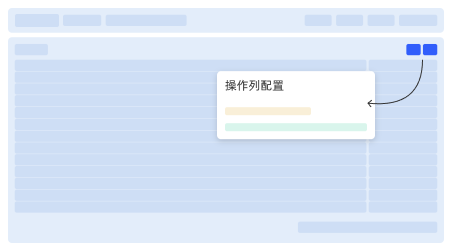
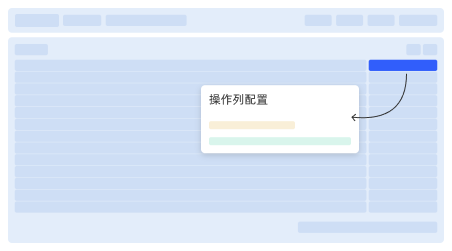
fix: bug#19000、18992

Changed region(s): [[0.4336, 0.1673, 0.9912, 0.6135]]

diff --git a/apps/Admin/src/components/ListPage/Preview/components/BatchDropdown/index.vue b/apps/Admin/src/components/ListPage/Preview/components/BatchDropdown/index.vue
@@ -5,7 +5,7 @@
             <j-button
                 type="primary"
                 ghost
-                :dataid="_item.key"
+                :dataid="_item.id"
                 :class="extractCssClass(_item.style)"
             >
               <img v-if="_item.icon?.includes('http')" :src="_item.icon" class="image-icon">
@@ -41,7 +41,7 @@
                           "
                           ref="secondLevelBtn"
                           :class="extractCssClass(item.style)"
-                          :data-id="item.key"
+                          :data-id="item.id"
                       >
                           <template #icon>
                             <img v-if="item.icon?.includes('http')" :src="item.icon" class="image-icon">
@@ -116,6 +116,7 @@ const batchClick = (v) => {
 
 watchEffect(() => {
   props.actions.forEach((item) => {
+    console.log(item);
     insertCustomCssToHead(item.style, item.key, 'dataid')
   })
 })

diff --git a/apps/Admin/src/components/ListPage/Preview/components/HederActions.vue b/apps/Admin/src/components/ListPage/Preview/components/HederActions.vue
@@ -9,7 +9,7 @@
           v-bind:="handleFunction(item.permissionProps, item, item)"
           :danger="item.command === 'Delete'"
           :popConfirm="handleFunction(item.permissionProps)?.popConfirm"
-          :data-id="item.key"
+          :data-id="item.id"
         >
           <j-space>
             <template v-if="item.icon">
@@ -26,7 +26,7 @@
             :actions="item?.children"
             v-else
         >
-          <j-button :dataid="item.key" :class="className(item.style)">
+          <j-button :dataid="item.id" :class="className(item.style)">
             <template #icon>
               <img v-if="item.icon?.includes('http')" :src="item.icon" class="image-icon">
               <AIcon v-else :type="item.icon"/>

diff --git a/apps/Admin/src/components/ListPage/Output/index.vue b/apps/Admin/src/components/ListPage/Output/index.vue
@@ -338,6 +338,7 @@ const actionsBtnFormat = (data: any, type: string) => {
     let result = {
       ...item,
       key: item?.command === 'Delete' ? 'delete' : item?.key,
+      id: item?.key,
       text: item?.title,
       icon: type == 'actions' ? item?.icon || 'SettingOutlined' : item?.icon,
       type: item?.type,

diff --git a/apps/Admin/src/components/ListPage/Preview/components/Preview.vue b/apps/Admin/src/components/ListPage/Preview/components/Preview.vue
@@ -268,6 +268,7 @@ const actionsBtnFormat = (data: any, type: string) => {
     let result = {
       ...item,
       key: item?.command === 'Delete' ? 'delete' : item?.key,
+      id: item?.key,
       text: item?.title,
       icon: type == 'actions' ? item?.icon || 'SettingOutlined' : item?.icon,
       type: item?.type,

diff --git a/apps/Admin/src/components/ListPage/Preview/components/OtherActions.vue b/apps/Admin/src/components/ListPage/Preview/components/OtherActions.vue
@@ -10,7 +10,7 @@
         :danger="item.command === 'Delete'"
         :popConfirm="handleFunction(item.permissionProps, record)?.popConfirm"
         :class="extractCssClass(item.style)"
-        :data-id="item.key"
+        :data-id="item.id"
       >
         <template v-if="item.icon">
           <img

diff --git a/apps/Admin/src/components/ListPage/Preview/components/BatchDropdown/types.d.ts b/apps/Admin/src/components/ListPage/Preview/components/BatchDropdown/types.d.ts
@@ -2,6 +2,7 @@ import type { ButtonProps } from "ant-design-vue/es/button";
 import type { PopconfirmProps } from "ant-design-vue/es/popconfirm";
 
 export interface BatchActionsType extends ButtonProps {
+  id?: string;
   key: string;
   text?: string;
   permission?: string;
